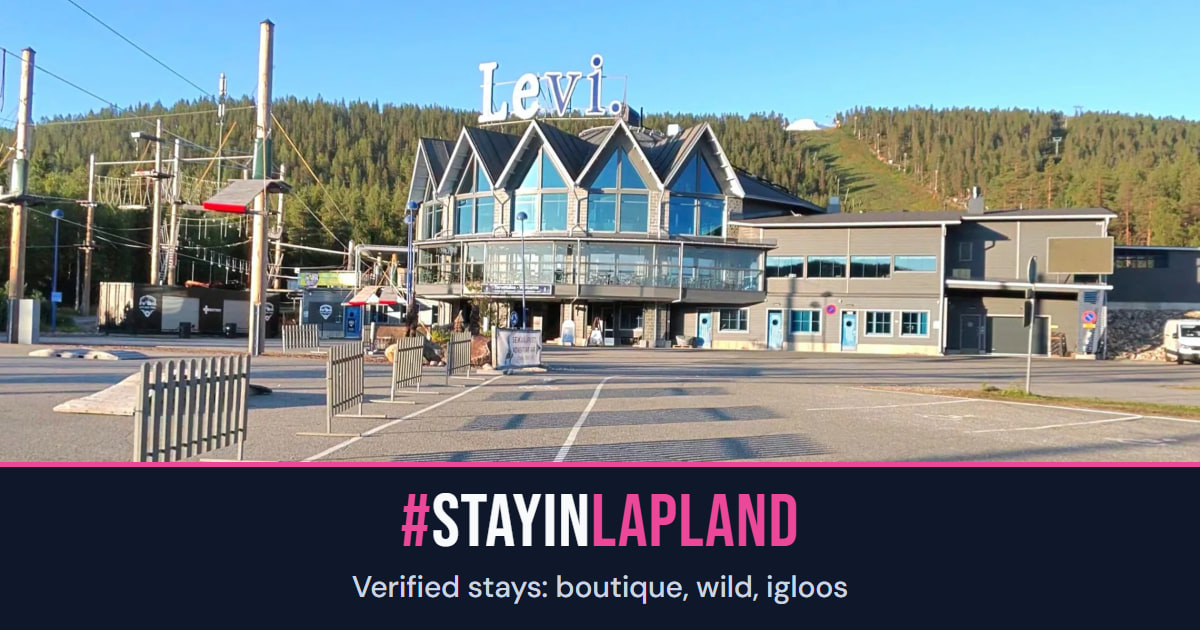
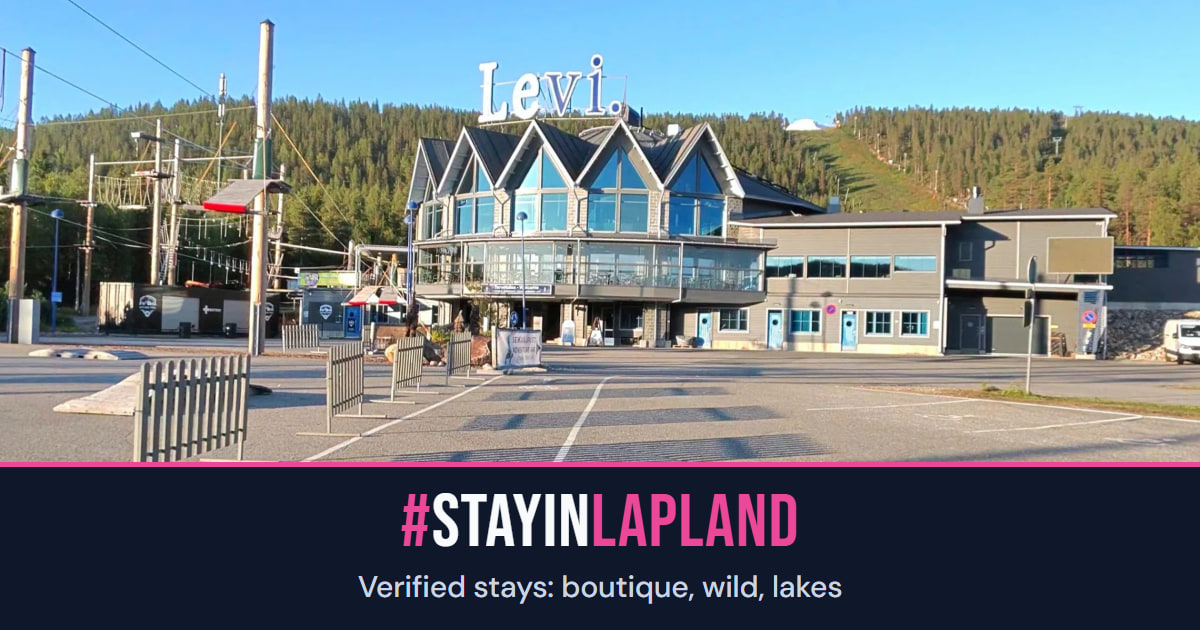
Jakokortti: kauden oma kuva JA kauden oma teksti
Vesa 21.9.2026: "eiko naihinkin pida olla saanto etta kesalla jaetaan
kesakuva ja teksti liittyy kesaan? nyt ouhut kesakuvassa aurorasta?"

Kortin kuva vaihtui kauden mukaan jo, teksti ei. Rekisterissa on nyt
taglineKesa ja taglineTalvi, ja kortit on tehty uudelleen molemmille
kausille. OG_VERSION nostettu, jotta uusi kortti nakyy jaossa heti eika
vasta kun some-palvelun valimuisti vanhenee.

Changed region(s): [[0.2775, 0.9048, 0.7092, 0.9651]]

diff --git a/index.html b/index.html
@@ -230,16 +230,16 @@
       });
     </script>
       <!-- Open Graph image (1200×630 JPEG) -->
-    <meta property="og:image" content="https://stayinlapland.com/og.jpg?v=20260905" />
-    <meta property="og:image:secure_url" content="https://stayinlapland.com/og.jpg?v=20260905" />
+    <meta property="og:image" content="https://stayinlapland.com/og.jpg?v=20260921" />
+    <meta property="og:image:secure_url" content="https://stayinlapland.com/og.jpg?v=20260921" />
     <meta property="og:image:type" content="image/jpeg" />
     <meta property="og:image:width" content="1200" />
     <meta property="og:image:height" content="630" />
-    <meta property="og:image:alt" content="Lakeside log cabin in the Finnish Lapland summer. #STAYINLAPLAND" />
+    <meta property="og:image:alt" content="Levi village centre and the fell on a summer evening. #STAYINLAPLAND" />
     <!-- Twitter card -->
     <meta name="twitter:card" content="summary_large_image" />
-    <meta name="twitter:image" content="https://stayinlapland.com/og.jpg?v=20260905" />
-    <meta name="twitter:image:alt" content="Lakeside log cabin in the Finnish Lapland summer. #STAYINLAPLAND" />
+    <meta name="twitter:image" content="https://stayinlapland.com/og.jpg?v=20260921" />
+    <meta name="twitter:image:alt" content="Levi village centre and the fell on a summer evening. #STAYINLAPLAND" />
       <!-- Favicon stack (LV ecosystem unified design) -->
     <link rel="icon" href="/favicon.svg?v=20260626b" type="image/svg+xml" />
     <link rel="alternate icon" href="/favicon.ico?v=20260626b" sizes="32x32" type="image/png" />
